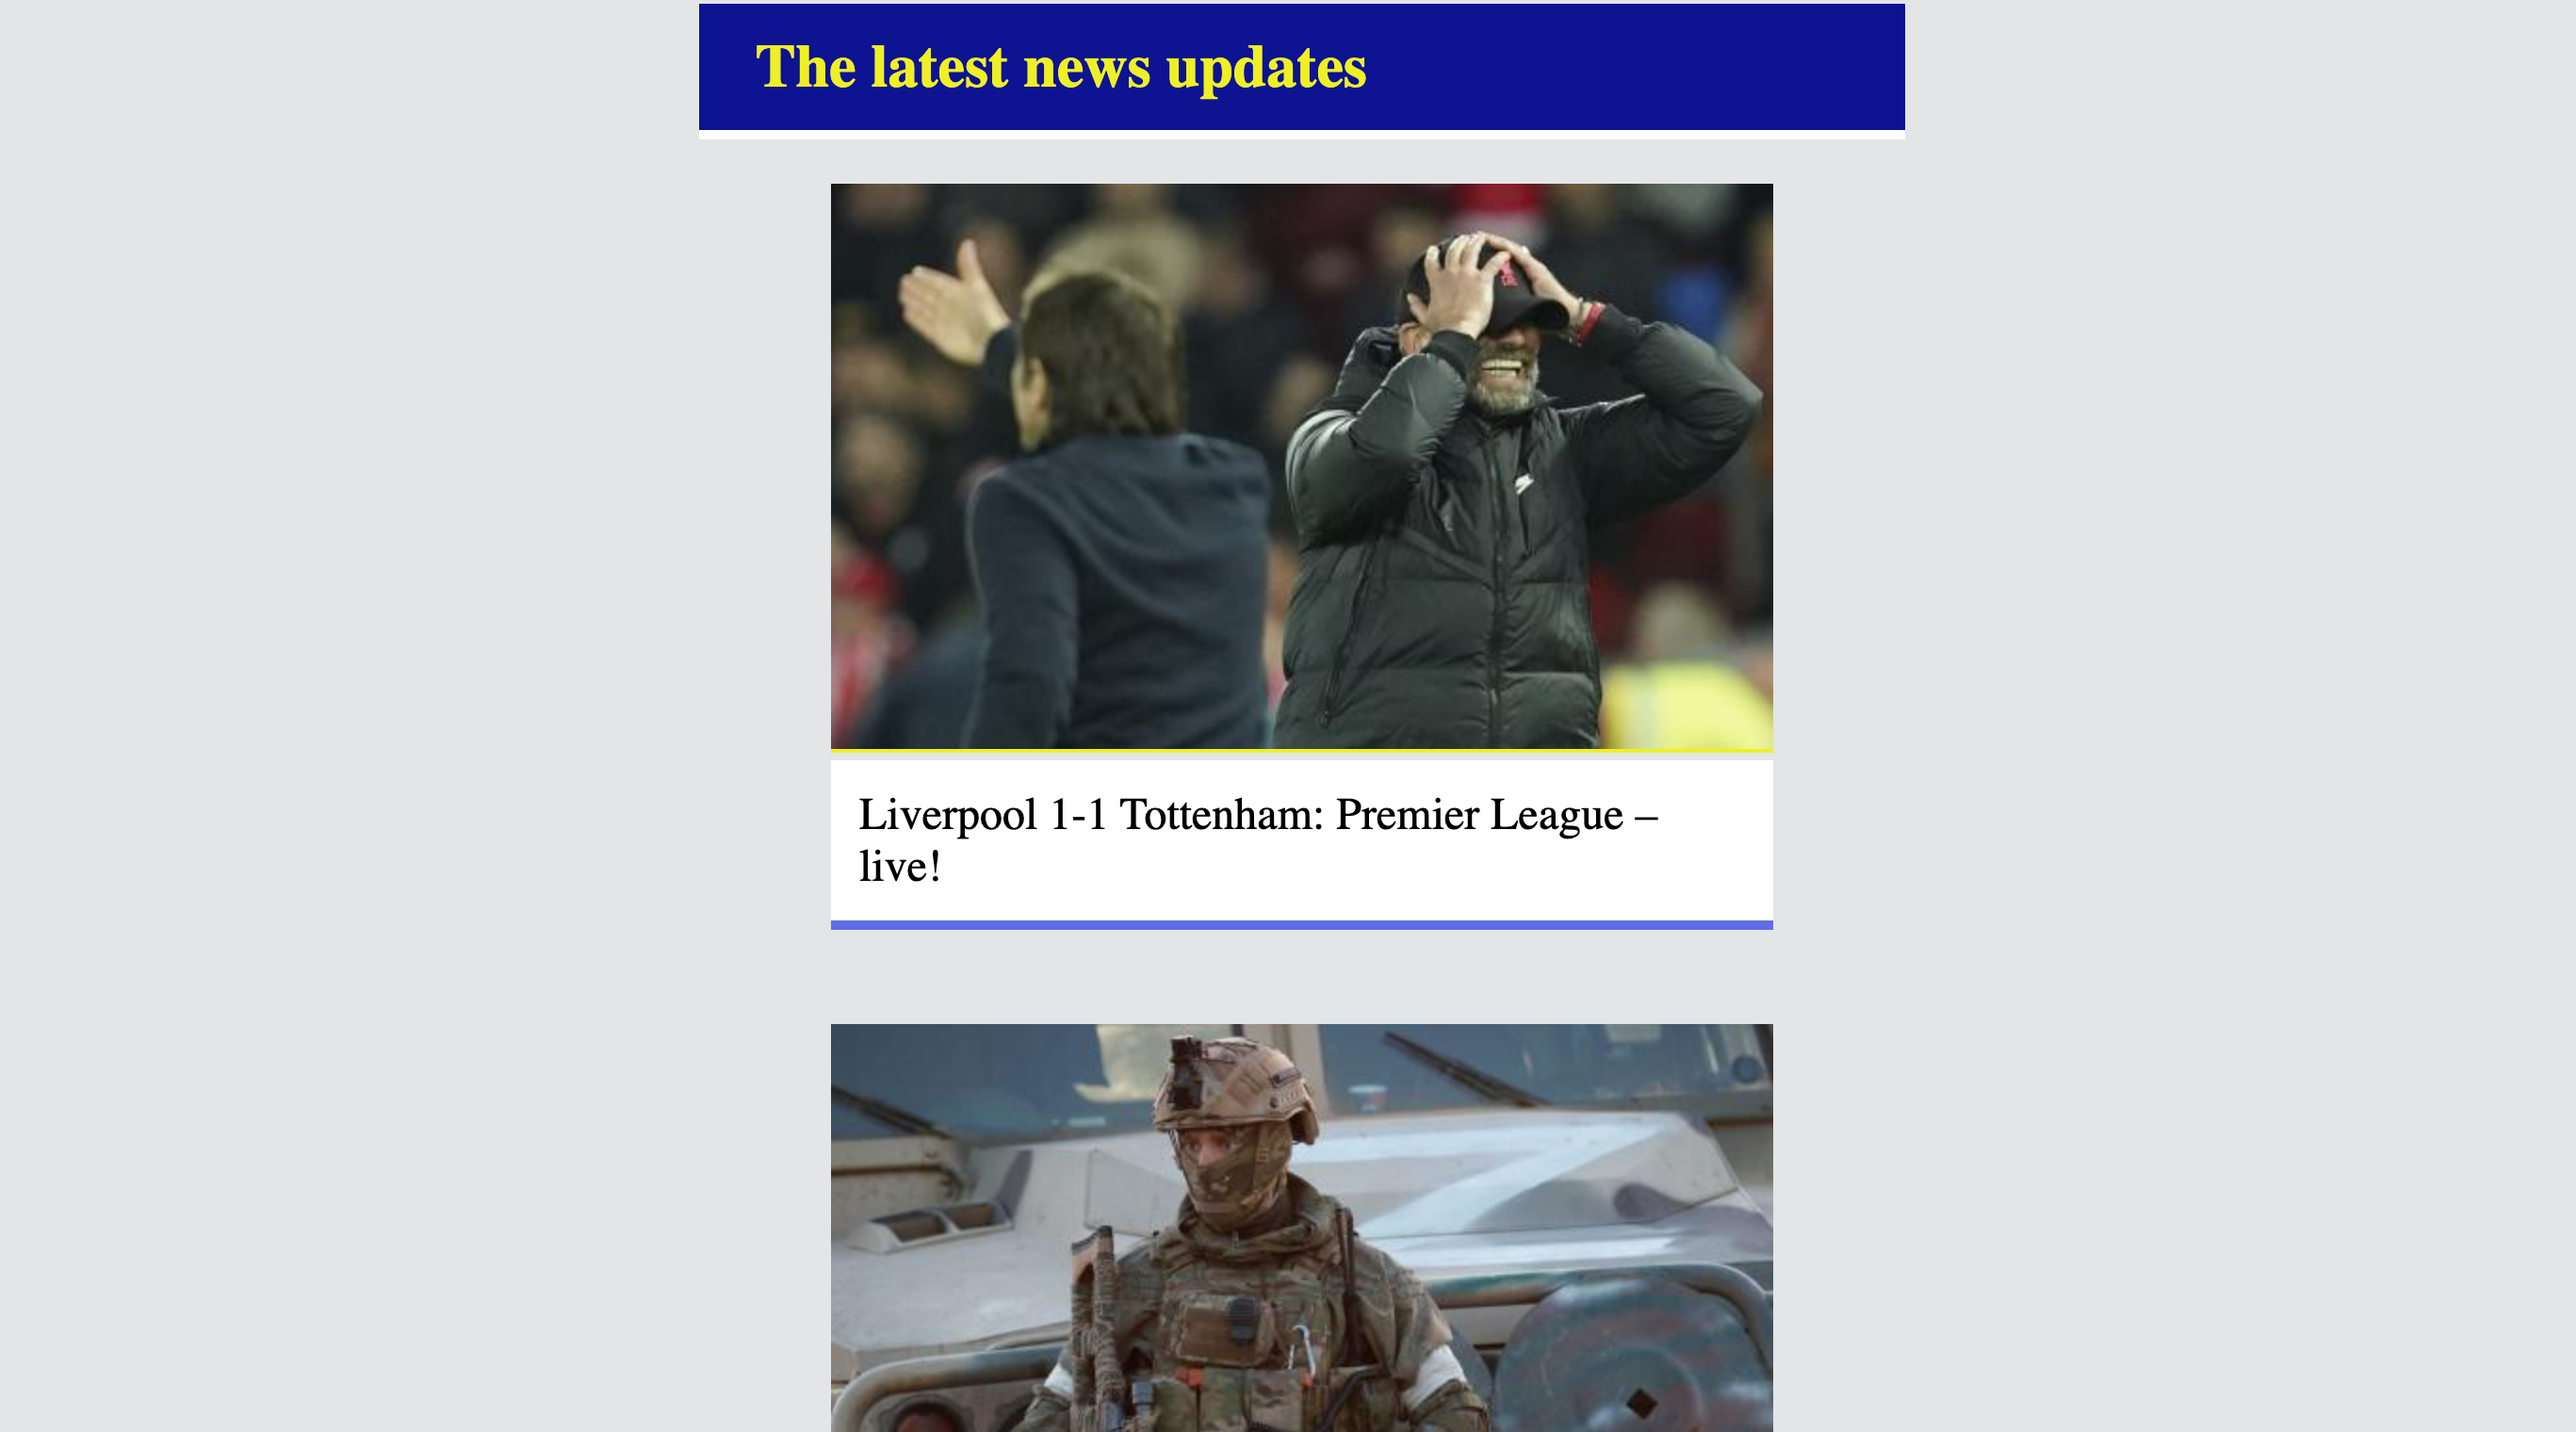
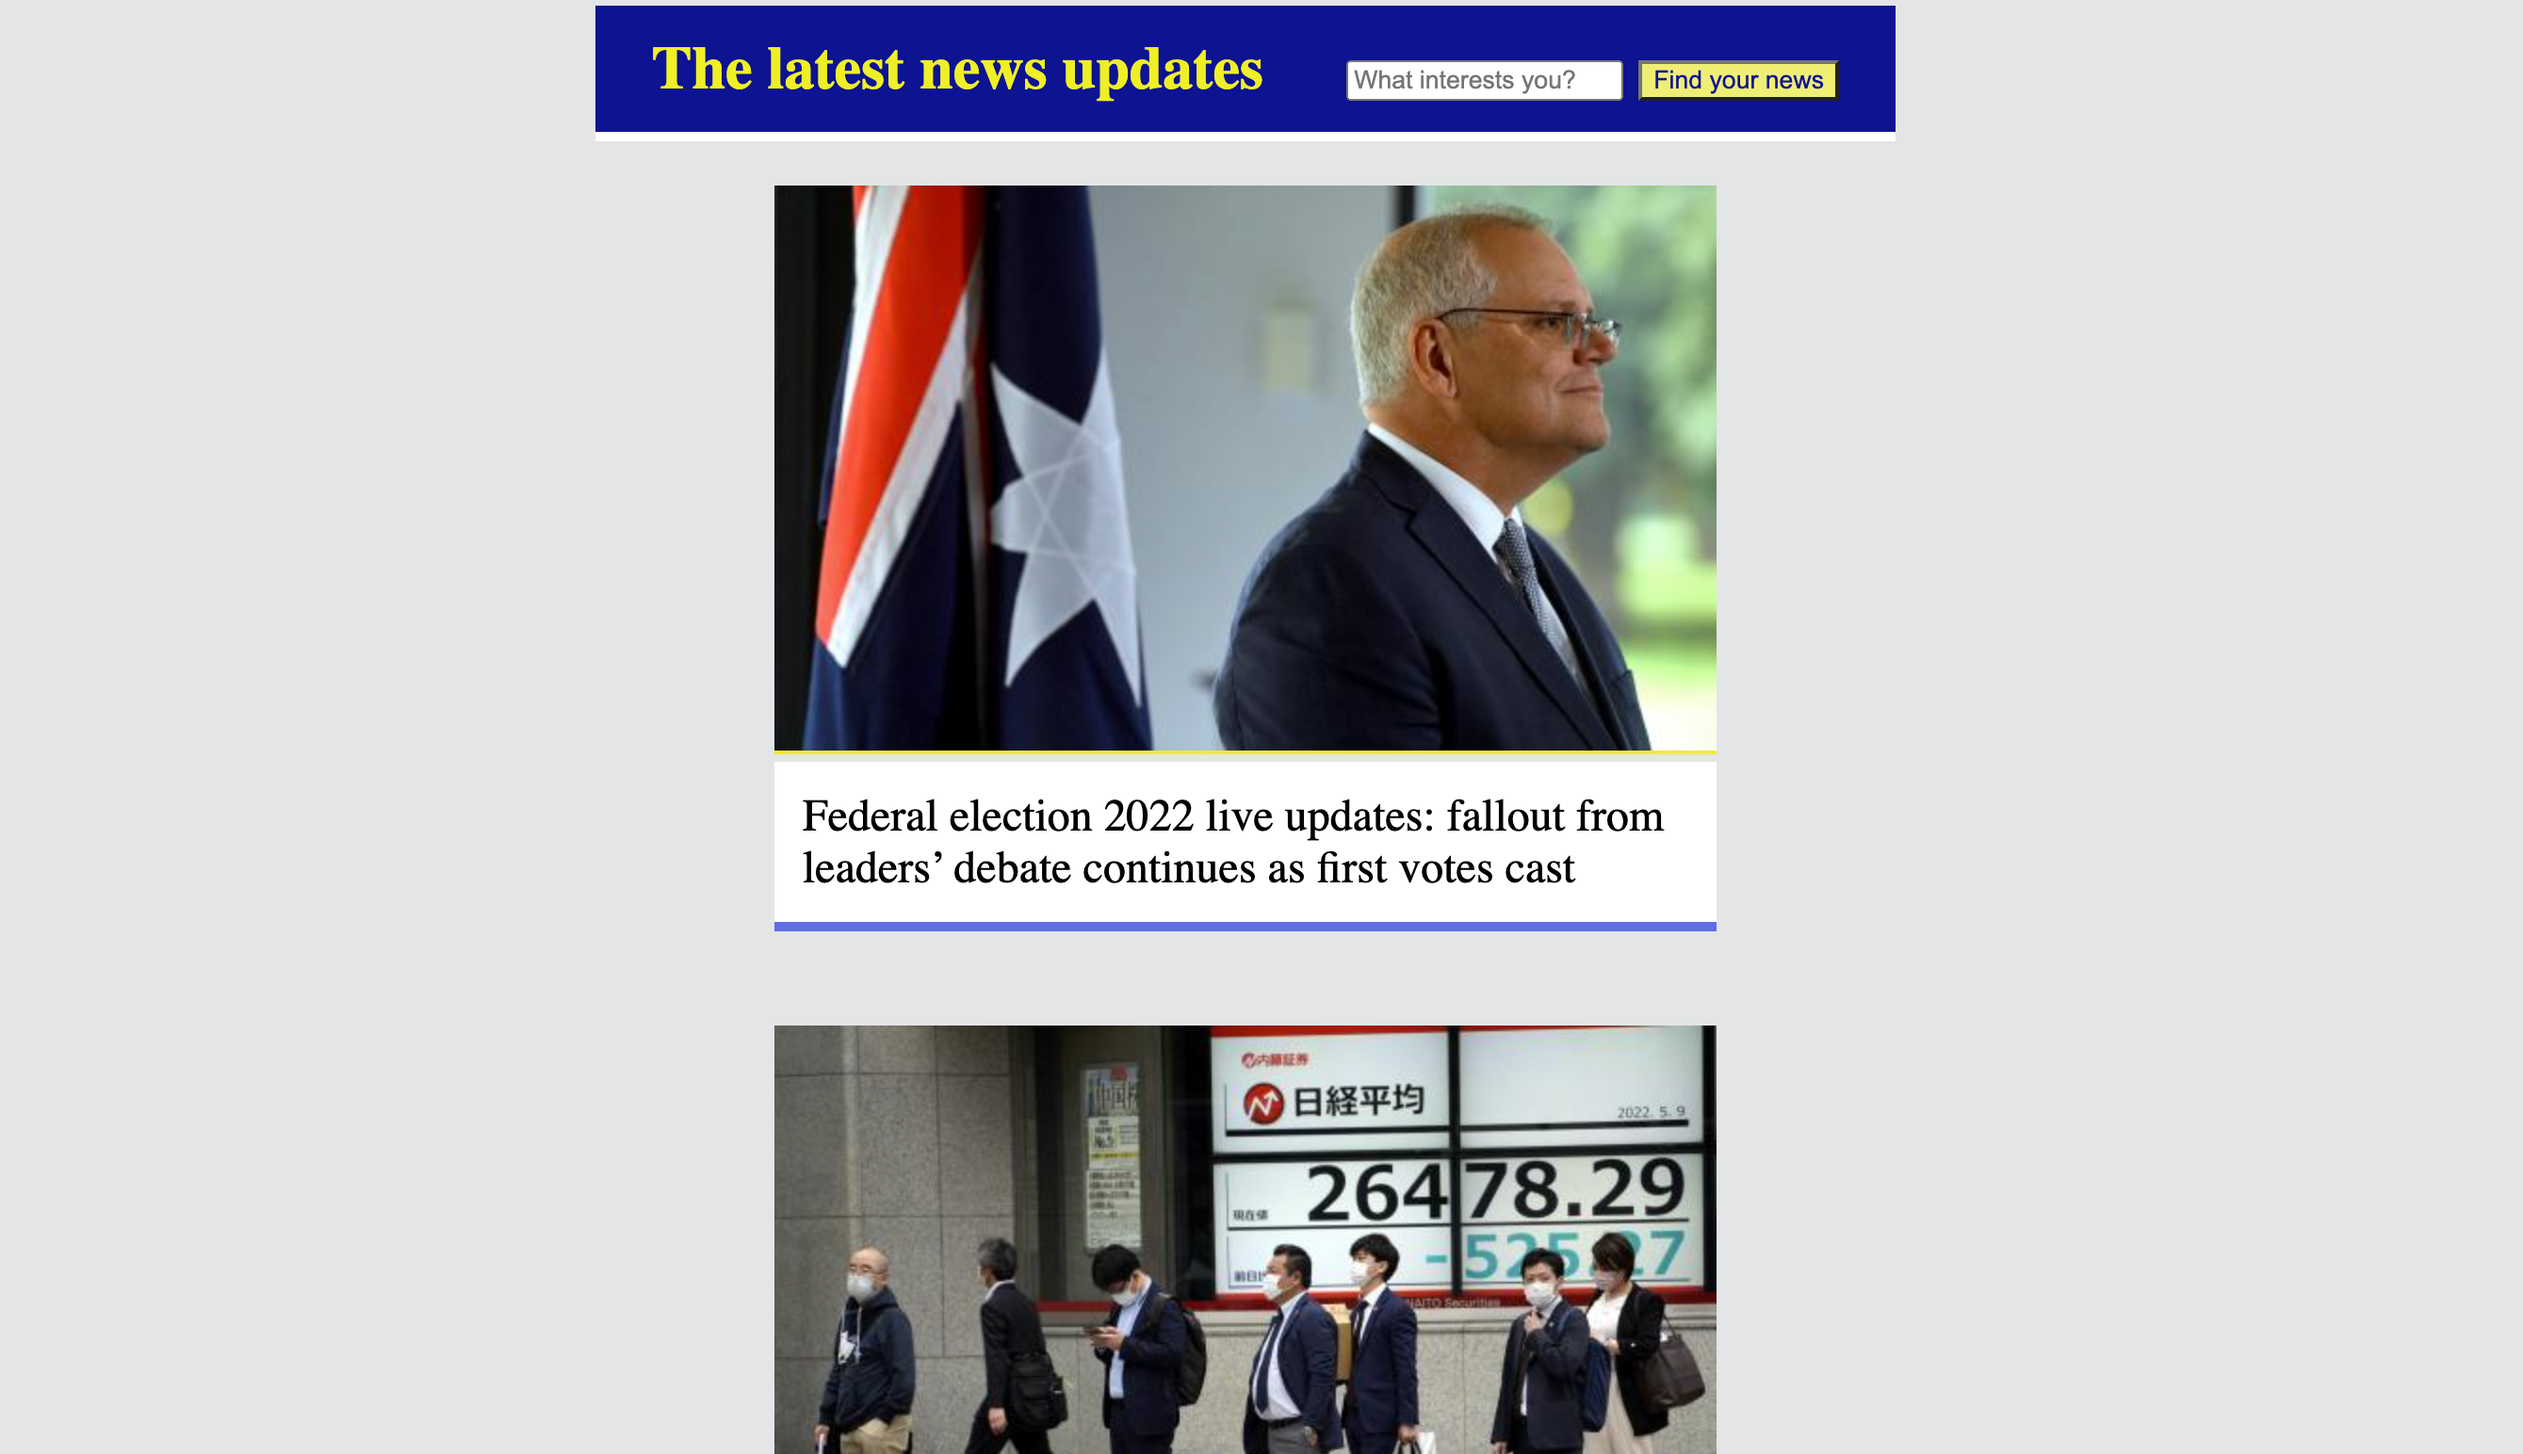
search function & some CSS edits

Changed region(s): [[0.3099, 0.1237, 0.7128, 0.6493], [0.3099, 0.6803, 0.7128, 1.0], [0.217, 0.0, 0.7748, 0.0928]]

diff --git a/newsView.test.js b/newsView.test.js
@@ -1,21 +1,22 @@
 /**
- * @jest-environment jsdom
- */
+* @jest-environment jsdom
+*/
 
- const fs = require('fs');
- const NewsView = require('./newsView');
+const { JestEnvironment } = require('@jest/environment');
+const fs = require('fs');
+const NewsView = require('./newsView');
  
- const mockedModel = {
-   getItems: () => [
+const mockedModel = {
+  getItems: () => [
     {webUrl: 'https://www.google.co.uk/', fields: {headline: 'first headline', thumbnail: 'a real image url'}},
     {webUrl: 'https://www.google.co.uk/', fields: {headline: 'second headline', thumbnail: 'even realer image url'}}
   ],
-   setItems: () => undefined,
-   reset: () => undefined
- };
+  setItems: () => undefined,
+  reset: () => undefined
+};
  
- const mockedApi = {
-   getNews: () => {
+const mockedApi = {
+  getNews: () => {
     response: {
       results: [
         {webUrl: 'https://www.google.co.uk/', fields: {headline: 'first headline', thumbnail: 'a real image url'}},
@@ -23,9 +24,21 @@
       ]
     }
   }
- };
+};
 
- describe(NewsView, () => {
+mockedApi.setUrl = jest.fn();
+
+describe(NewsView, () => {
+  it('changes the url with the search function', () => {
+    document.body.innerHTML = fs.readFileSync('./index.html')
+    const view = new NewsView(mockedModel, mockedApi);
+    const searchFieldEl = document.querySelector('#search-field');
+    searchFieldEl.value = 'search';
+    const searchButtonEl = document.querySelector('#search-button');
+    searchButtonEl.click();
+    expect(view.api.setUrl).toHaveBeenCalledWith('search');
+  })
+
   describe('.display()', () => {
     it("gets the items from model and displays it as a new div.news element", () => {
       document.body.innerHTML = fs.readFileSync('./index.html');
@@ -55,7 +68,6 @@
         expect(document.querySelectorAll('a').length).toBe(2);
         expect(document.querySelectorAll('img').length).toBe(2);
       });
-    
     })
   })
 

diff --git a/index.html b/index.html
@@ -9,7 +9,7 @@
         background-color: rgb(227, 229, 230);
         text-align: center;
         margin: 0 auto;
-        max-width: 650px;
+        max-width: 700px;
       }
 
       h1 {
@@ -42,12 +42,20 @@
       }
 
       a:link { text-decoration: none; }
-      a:visited { text-decoration: none; }
-      a:hover { text-decoration: none; }
-      a:active { text-decoration: none; }
+      a:visited { color: rgb(124, 39, 39) }
+      a:hover { text-decoration: underline; }
 
       img {
         border-bottom: 2px solid rgb(239, 239, 29);
+      }
+
+      div.a {
+        float: right;
+      }
+
+      button {
+        background-color: rgb(239, 239, 116);
+        color: rgb(14, 18, 146);
       }
 
     </style>
@@ -55,7 +63,12 @@
     <title>Guardian News Summary</title>
   </head>
   <body>
-    <h1>The latest news updates</h1>
+    <h1>The latest news updates   
+    <div class="a">
+    <input type="text" id="search-field" placeholder="What interests you?"/>
+    <button id="search-button">Find your news</button>
+    </div>
+    </h1>
     <br>
     <ul></ul>
   </body>

diff --git a/newsApi.js b/newsApi.js
@@ -3,7 +3,10 @@ const ApiKey = require('./apiKey');
 class NewsApi {
 
   constructor() {
-    this.url = `https://content.guardianapis.com/search?q=&query-fields=headline&show-fields=thumbnail,headline,byline&order-by=newest&api-key=${ApiKey}`
+    this.urlBeginning = 'https://content.guardianapis.com/search?q=';
+    this.urlEnd = `&query-fields=headline&show-fields=thumbnail,headline,byline&order-by=newest&api-key=${ApiKey}`;
+    this.url = this.urlBeginning + this.urlEnd
+
   }
 
   getNews(callback) {
@@ -12,6 +15,10 @@ class NewsApi {
       .then((data) => {
         callback(data);
       })
+  }
+
+  setUrl(searchQuery) {
+    this.url = this.urlBeginning + searchQuery + this.urlEnd;
   }
 }
 

diff --git a/newsView.js b/newsView.js
@@ -7,9 +7,14 @@ class NewsView {
     this.model = model;
     this.api = api;
     this.listEl = document.querySelector('ul');
+    this.searchButtonEl = document.querySelector('#search-button');
+    this.searchFieldEl = document.querySelector('#search-field');
 
+    this.searchButtonEl.addEventListener('click', () => {
+      this.api.setUrl(this.searchFieldEl.value);
+      this.fetch_then_display();
+    })
   }
-
 
   display() {
     this.#clear();
@@ -46,7 +51,6 @@ class NewsView {
       image.remove()
     })
   }
-
 }
 
 module.exports = NewsView

diff --git a/newsApi.test.js b/newsApi.test.js
@@ -17,4 +17,10 @@ describe(NewsApi, () => {
       expect(dataFromApi.response.results[0].fields.headline).toBe('first headline');
     });
   });
+
+  it('edits the URL with setUrl()', () => {
+    const api = new NewsApi();
+    api.setUrl('football');
+    expect(api.url).toMatch(/football/)
+  })
 });

diff --git a/README.md b/README.md
@@ -42,13 +42,13 @@ So I can get a few more details about an important story
 I can click a news article title which links to the original article
 ```
 
-### Aspirational user stories
-
 ```
 As a busy politician
 So I can search what I want to read about
 I can specify a search query on the page and get articles matching this search
 ```
+
+### Aspirational user stories
 
 ```
 As a busy politician
